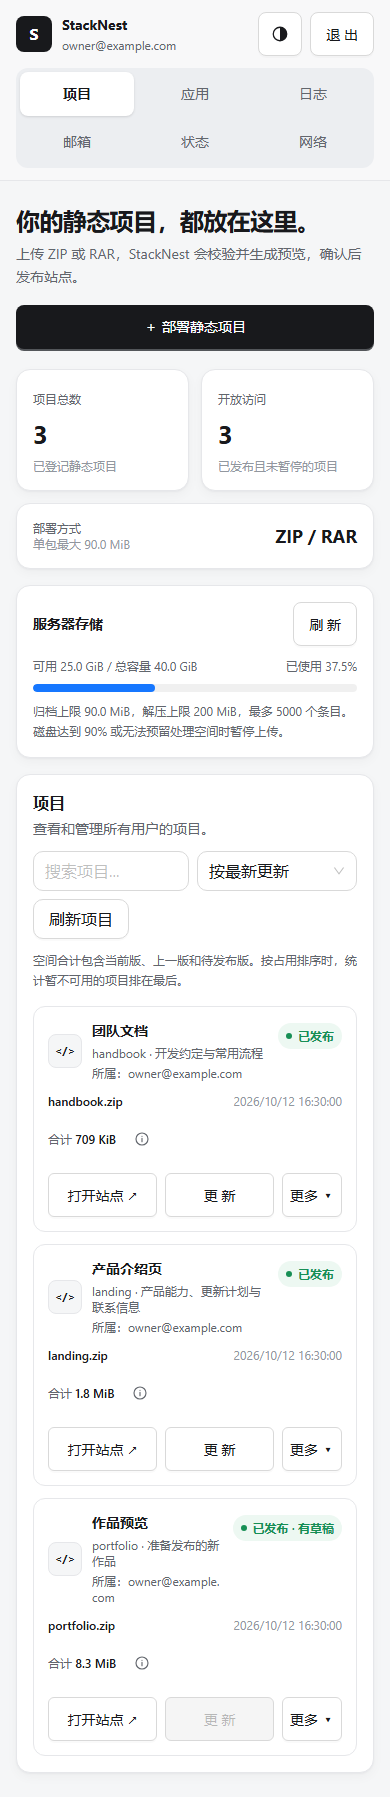
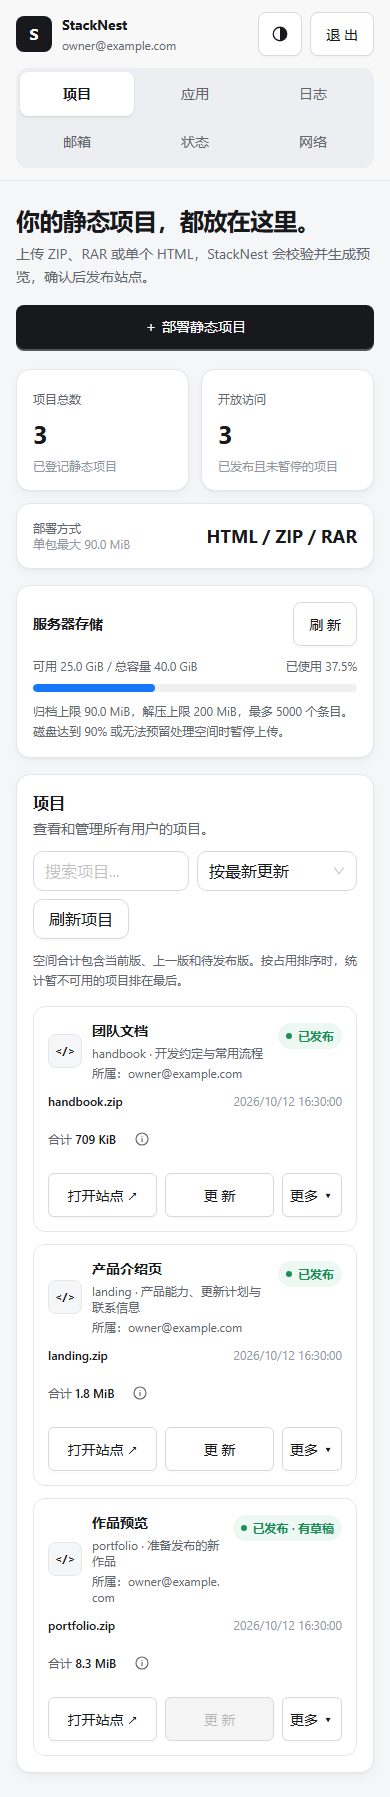
docs: refresh README branding and product previews
Add matching light and dark SVG banners, project badges and focused documentation links.
Show static projects, Docker apps and optional mobile and diagnostics previews using fictional data.

diff --git a/scripts/showcase.ts b/scripts/showcase.ts
@@ -3,6 +3,75 @@ import { fileURLToPath } from 'node:url'
 import { test, expect } from '../tests/fixtures.ts'
 import { admin, original } from '../tests/data.ts'
 import { assertFits } from '../tests/helpers.ts'
+import type { AppList, AppView } from '../src/types/app.ts'
+
+// demoApps 提供可公开的虚构应用及资源采样，不包含真实镜像仓库或环境变量值。
+function demoApps(): AppList {
+  const apps = [
+    {
+      id: '0c2d84bb-15a1-492b-938a-83282600c112',
+      name: '团队文档 API',
+      slug: 'handbook-api',
+      image: 'ghcr.io/example/handbook-api:v1.2',
+      memoryMiB: 256,
+      dataPath: '/app/data',
+    },
+    {
+      id: '0c2d84bb-15a1-492b-938a-83282600c113',
+      name: '团队状态页',
+      slug: 'status-page',
+      image: 'ghcr.io/example/status-page:v1.0',
+      memoryMiB: 128,
+      dataPath: '',
+    },
+  ].map((item, index): AppView => ({
+    app: {
+      ...item,
+      ownerId: admin.id,
+      ownerEmail: 'owner@example.com',
+      port: 3000,
+      cpus: 0.5,
+      healthPath: '/health',
+      envKeys: ['NODE_ENV', 'PORT'],
+      hasRegistry: false,
+      generation: 1,
+      status: 'ready',
+      createdAt: '2026-10-12T08:30:00Z',
+      updatedAt: '2026-10-12T08:30:00Z',
+      url: `https://stack-nest--app-${item.slug}.example.com/`,
+    },
+    runtime: {
+      state: 'running',
+      health: 'healthy',
+      healthCheck: 'http',
+      oomKilled: false,
+      exitCode: 0,
+      containerId: `example-container-${index}`,
+      imageId: 'example-image',
+      usage: {
+        cpuPercent: index === 0 ? 3.8 : 0.6,
+        memoryBytes: (index === 0 ? 82 : 28) * 1024 ** 2,
+        memoryLimitBytes: item.memoryMiB * 1024 ** 2,
+        pids: index === 0 ? 14 : 5,
+        sampledAt: '2026-10-12T08:30:00Z',
+      },
+      disk: {
+        writable: { usedBytes: 128 * 1024 ** 2, limitBytes: 1024 ** 3, source: 'xfs' },
+        persistent: item.dataPath
+          ? {
+              usedBytes: 32 * 1024 ** 2,
+              limitBytes: 1024 ** 3,
+              usedInodes: 335,
+              limitInodes: 100_000,
+              source: 'xfs',
+            }
+          : undefined,
+        sampledAt: '2026-10-12T08:30:00Z',
+      },
+    },
+  }))
+  return { apps, available: true, limits: { maxApps: 3, totalMemoryMiB: 2048, maxMemoryMiB: 1024 } }
+}
 
 // 演示使用虚构项目、邮箱和状态，不读取部署配置或连接真实服务器。
 test('生成文档界面截图', async ({ page, api, isMobile }) => {
@@ -61,6 +130,21 @@ test('生成文档界面截图', async ({ page, api, isMobile }) => {
   await page.route('**/api/version', (route) =>
     route.fulfill({ json: { version: 'dev', revision: 'unknown' } }),
   )
+  await page.route(/\/api\/apps(?:\/limits)?$/, (route) => {
+    if (route.request().method() !== 'GET') throw new Error('展示截图只能读取应用')
+    return route.fulfill({
+      json: route.request().url().endsWith('/limits')
+        ? {
+            maxApps: 3,
+            totalMemoryMiB: 2048,
+            revision: 1,
+            usedApps: 2,
+            allocatedMemoryMiB: 384,
+            maxTotalMemoryMiB: 3072,
+          }
+        : demoApps(),
+    })
+  })
   await page.route('**/api/system/diagnostics', (route) =>
     route.fulfill({
       json: {
@@ -88,6 +172,15 @@ test('生成文档界面截图', async ({ page, api, isMobile }) => {
     animations: 'disabled',
   })
   if (!isMobile) {
+    await page.goto('/apps')
+    await expect(page.getByRole('link', { name: '团队文档 API', exact: true })).toBeVisible()
+    await expect(page.getByText('HTTP 正常', { exact: true })).toHaveCount(2)
+    await assertFits(page)
+    await page.screenshot({
+      path: fileURLToPath(new URL('docker-desktop.png', images)),
+      fullPage: true,
+      animations: 'disabled',
+    })
     await page.emulateMedia({ colorScheme: 'dark' })
     await page.goto('/system')
     const card = page.getByRole('region', { name: '平台诊断' })

diff --git a/README.md b/README.md
@@ -1,49 +1,77 @@
-# StackNest Web
+<div align="center">
+  <picture>
+    <source media="(prefers-color-scheme: dark)" srcset="docs/images/stacknest-banner-dark.svg">
+    <img src="docs/images/stacknest-banner.svg" alt="StackNest — Your projects. Your server." width="1280">
+  </picture>
 
-[StackNest](https://github.com/zby909/stack-nest-server) 的管理界面。
+  <p><strong>StackNest Web · 项目管理，从一个清晰的界面开始。</strong></p>
+  <p>静态站点、Docker 应用、成员与服务器状态，在桌面和手机上都能管理。</p>
 
-静态站点和 Docker 应用管理、邮箱登录、成员权限、日志、服务器状态，支持手机布局和明暗主题。
+  <p>
+    <a href="https://github.com/zby909/stack-nest-server/blob/main/docs/INSTALL_RELEASE.md"><strong>部署完整平台 →</strong></a> ·
+    <a href="docs/DEVELOPMENT.md">前端开发</a> ·
+    <a href="https://github.com/zby909/stack-nest-server/blob/main/docs/USAGE.md">使用指南</a> ·
+    <a href="https://github.com/zby909/stack-nest-server">Server 仓库</a>
+  </p>
 
-[部署平台](https://github.com/zby909/stack-nest-server/blob/main/docs/INSTALL_RELEASE.md) · [文档](https://github.com/zby909/stack-nest-server/blob/main/docs/README.md) · [使用指南](https://github.com/zby909/stack-nest-server/blob/main/docs/USAGE.md)
+  <p>
+    <a href="LICENSE"><img src="https://img.shields.io/badge/license-Apache--2.0-2563eb?style=flat-square" alt="Apache-2.0 license"></a>
+    <a href="package.json"><img src="https://img.shields.io/badge/UI-React-149eca?style=flat-square&amp;logo=react&amp;logoColor=white" alt="React UI"></a>
+    <a href="tsconfig.app.json"><img src="https://img.shields.io/badge/code-TypeScript-3178c6?style=flat-square&amp;logo=typescript&amp;logoColor=white" alt="TypeScript"></a>
+    <a href="https://github.com/zby909/stack-nest-web/actions/workflows/check.yml"><img src="https://github.com/zby909/stack-nest-web/actions/workflows/check.yml/badge.svg" alt="Web checks"></a>
+  </p>
+</div>
 
-![项目管理](docs/images/projects-desktop.png)
+## 从上传到发布
 
-[手机布局](docs/images/projects-mobile.png) · [运维与诊断](docs/images/system-desktop.png)
+上传单个 HTML 或静态压缩包，先看独立预览，再确认发布。断点续传、版本回退和空间统计都在项目中完成。
 
-## 开发
+![静态项目管理界面](docs/images/projects-desktop.png)
 
-准备 Node.js 24、项目指定的 pnpm，先启动 [Go API 与开发数据库](https://github.com/zby909/stack-nest-server/blob/main/docs/DEVELOPMENT.md)。
+## 让应用运行起来
+
+填写已有 Docker 镜像地址，管理环境变量、启停与日志，查看健康状态和 CPU、内存、磁盘用量。
+
+![Docker 应用与运行状态](docs/images/docker-desktop.png)
+
+<details>
+  <summary><strong>📱 手机布局 · 🌙 深色主题与平台诊断</strong></summary>
+  <br>
+  <p align="center"><img src="docs/images/projects-mobile.png" alt="手机上的项目列表" width="320"></p>
+  <img src="docs/images/system-desktop.png" alt="深色主题下的服务器状态与平台诊断">
+</details>
+
+<sub>截图来自实际界面，使用虚构的演示数据。成员、管理员和超管按各自权限显示对应功能。</sub>
+
+## 本地开发
+
+准备 **Node.js 24** 和 `package.json` 指定的 pnpm，先启动 [Go API 与开发数据库](https://github.com/zby909/stack-nest-server/blob/main/docs/DEVELOPMENT.md)。
 
 ```bash
 pnpm install --frozen-lockfile
 pnpm dev
 ```
 
-默认访问 `http://localhost:5173`。Vite 将 API 和静态预览请求交给本地 Go。
+访问 `http://localhost:5173`。Vite 将 API 和静态预览请求交给本地 Go。[开发说明](docs/DEVELOPMENT.md)
 
-## 检查
+## 检查与构建
 
 ```bash
 pnpm exec playwright install chromium
 pnpm check
-```
-
-包含类型、Lint、构建和桌面 / 手机回归。[测试说明](docs/TESTING.md) · [开发约定](docs/DEVELOPMENT.md)
-
-## 构建
-
-```bash
 pnpm build
 ```
 
-输出为 `dist/`，生产由平台 Nginx 提供。整套平台使用 Server 的 Compose，无需 Node 服务。
+`pnpm check` 包含类型检查、Lint，以及桌面和手机尺寸的浏览器回归。构建输出为 `dist/`，生产由平台 Nginx 提供。[测试说明](docs/TESTING.md) · [构建配置](docs/DEPLOYMENT.md)
 
-[构建配置](docs/DEPLOYMENT.md) · [源码部署](https://github.com/zby909/stack-nest-server/blob/main/docs/GETTING_STARTED.md)
+文档截图可用 `pnpm screenshots` 重新生成，使用本地演示数据。
 
-## 技术栈
+## 技术与协作
 
-React · TypeScript · Vite · Tailwind CSS 4 · Ant Design · Axios
+**React · TypeScript · Vite · Tailwind CSS 4 · Ant Design · Axios**
 
-## 许可与贡献
+- 整套平台使用 [Server 的 Docker 部署方案](https://github.com/zby909/stack-nest-server/blob/main/docs/INSTALL_RELEASE.md)。
+- 功能建议与整体设计在 [Server Issues](https://github.com/zby909/stack-nest-server/issues)讨论；界面改动见 [贡献指南](CONTRIBUTING.md)。
+- 组件分工、前后端连接与维护方式见 [架构说明](https://github.com/zby909/stack-nest-server/blob/main/docs/ARCHITECTURE.md)。
 
-Copyright 2026 zby909 and StackNest contributors. 使用 [Apache-2.0](LICENSE) 许可。第三方内容保留原许可，见 [NOTICE](NOTICE)。[参与贡献](CONTRIBUTING.md)
+Copyright 2026 zby909 and StackNest contributors. 使用 [Apache-2.0](LICENSE) 许可，第三方内容保留原许可，见 [NOTICE](NOTICE)。
